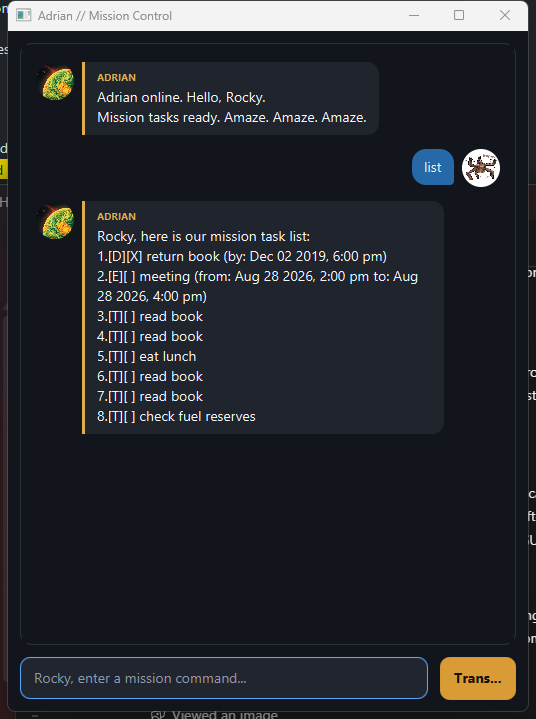
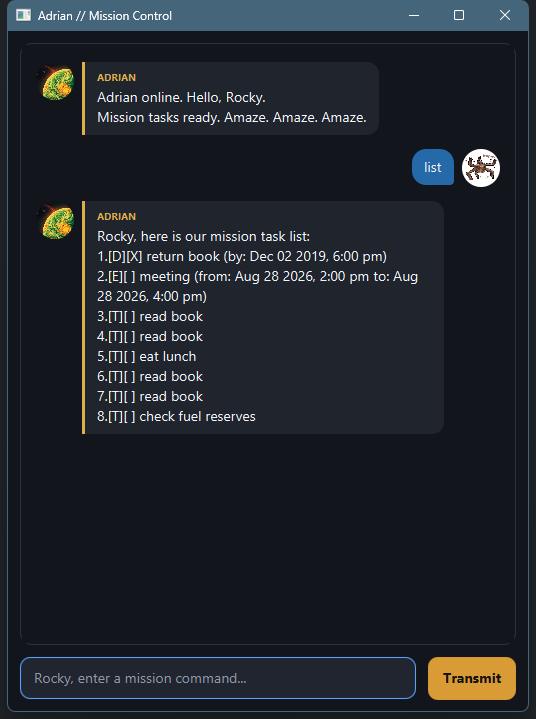
Prevent transmit button text clipping
Give the Transmit button enough space for its full label and update the representative product screenshot.

diff --git a/src/main/java/adrian/Main.java b/src/main/java/adrian/Main.java
@@ -22,6 +22,7 @@ public class Main extends Application {
     private static final double WINDOW_HEIGHT = 680.0;
     private static final double MINIMUM_WINDOW_WIDTH = 360.0;
     private static final double MINIMUM_WINDOW_HEIGHT = 460.0;
+    private static final double SEND_BUTTON_WIDTH = 88.0;
 
     private final ScrollPane scrollPane = new ScrollPane();
     private final VBox dialogContainer = new VBox();
@@ -80,7 +81,7 @@ public class Main extends Application {
     private void configureInputControls() {
         userInput.setPromptText("Rocky, enter a mission command...");
         userInput.setPrefHeight(42.0);
-        sendButton.setPrefSize(76.0, 42.0);
+        sendButton.setPrefSize(SEND_BUTTON_WIDTH, 42.0);
         userInput.setOnAction(event -> handleUserInput());
         sendButton.setOnAction(event -> handleUserInput());
     }
@@ -101,7 +102,7 @@ public class Main extends Application {
         AnchorPane.setBottomAnchor(scrollPane, 66.0);
         AnchorPane.setLeftAnchor(scrollPane, 12.0);
 
-        AnchorPane.setRightAnchor(userInput, 100.0);
+        AnchorPane.setRightAnchor(userInput, SEND_BUTTON_WIDTH + 24.0);
         AnchorPane.setBottomAnchor(userInput, 12.0);
         AnchorPane.setLeftAnchor(userInput, 12.0);
 
